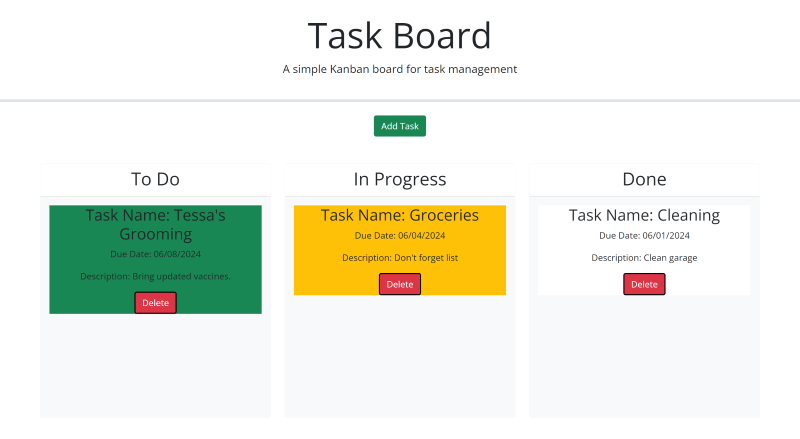
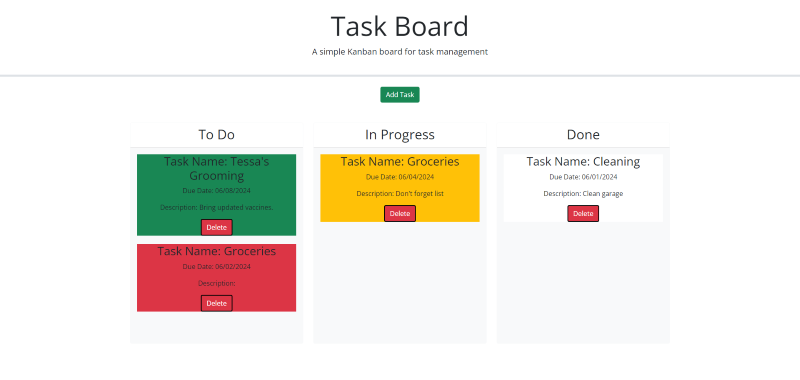
updated readme and erased commented out codes in my js

diff --git a/assets/js/script.js b/assets/js/script.js
@@ -1,4 +1,3 @@
-// const card = $('.new-card');
 const currentDate = dayjs();
 const taskDetails = $('.task-details');
 
@@ -30,7 +29,7 @@ function createTaskCard(task) {
   
   if (dueDate.isBefore(currentDate, 'day')) {
     card.addClass('bg-danger');
-  } else if (dueDate.diff(currentDate, 'days') <= 2 && dueDate.diff(currentDate, 'days') >= 0) {
+  } else if (dueDate.diff(currentDate, 'days') <= 0 && dueDate.diff(currentDate, 'days') >= 0) {
     card.addClass('bg-warning');
   }else {
     card.addClass('bg-success');
@@ -86,6 +85,7 @@ function renderTaskList() {
 
   // make task cards draggable
   $(".new-card").draggable({
+    revert: true,
   });
 }
 
@@ -136,10 +136,6 @@ function handleDrop(event, ui) {
   // get the task id and new status from the event
   let taskId = ui.draggable.data('task-id');
   let newStatus = event.target.closest('.lane').id;
-  // update the task status of the dragged card
-
-  // console.log("Task ID:", taskId);
-  // console.log("New Status:", newStatus);
 
   // update the task status of the dragged card
   taskList.forEach(task => {
@@ -150,8 +146,6 @@ function handleDrop(event, ui) {
 
   // save and render
   localStorage.setItem("tasks", JSON.stringify(taskList));
-
-  // console.log("Task List after update:", taskList);
 
   renderTaskList();
 }

diff --git a/README.md b/README.md
@@ -1,1 +1,33 @@
-# task-board
+# Task Board
+
+This task board was created to add individual project tasks, manage their state of progress and track overall project progress accordingly.
+
+## Description
+
+This task board was created as a challenge for bootcamp students to apply everything that was learned in module 5 of class. The challenge will make this app run in the browser and feature dynamically updated HTML and CSS powered by jQuery, jQuery UI, and Day.js.
+
+## Acceptance Criteria
+
+    - Having a source code.
+    - Given a task board to manage a project.
+    - When task board is opened the list of project tasks is displayed in columns representing the task progress state (To do, In Progress, Done)
+    - When I view the task board for the project each task is color coded to indicate whether it is nearing the deadline (yellow), overdue (red), future (green), and done (white).
+    - When I click on the Add Task button I can enter the task name, task description, and task due date for the new task into a modal dialog.
+    - When I click the save button for that task, the properties for that task are saved in localStorage.
+    - When I drag a task to a different progress column the task's progress state is updated accordingly and will stay in the new column after refreshing.
+    - When I click the delete button for a task the task is removed from the task board and will not be added back after refreshing.
+    - When I refresh the page the saved tasks persist.
+
+## Screenshot
+
+![alttext](/assets/images/Modal&Datepickerscreenshot.png)
+
+![alttext](/assets/images/Task-boardscreenshot.png)
+
+![alttext](/assets/images/localstoragescreenshot.png)
+
+## Links
+
+[LiveURL](https://zoniaramirez.github.io/task-board/)
+
+[GitHubRepo](https://github.com/zoniaramirez/task-board)
